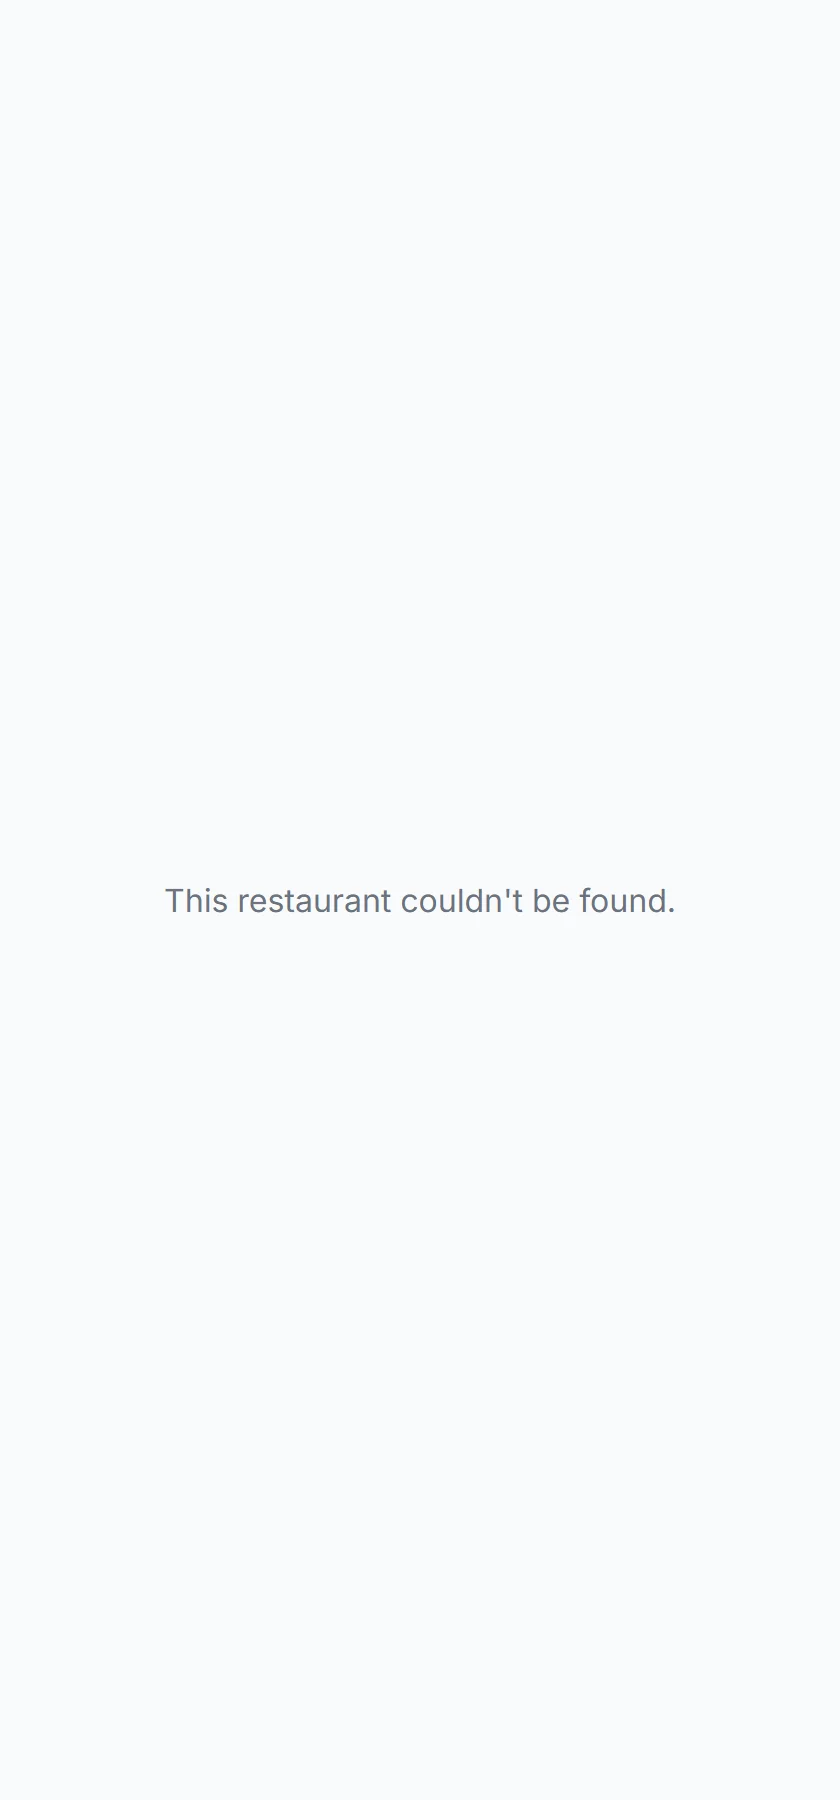
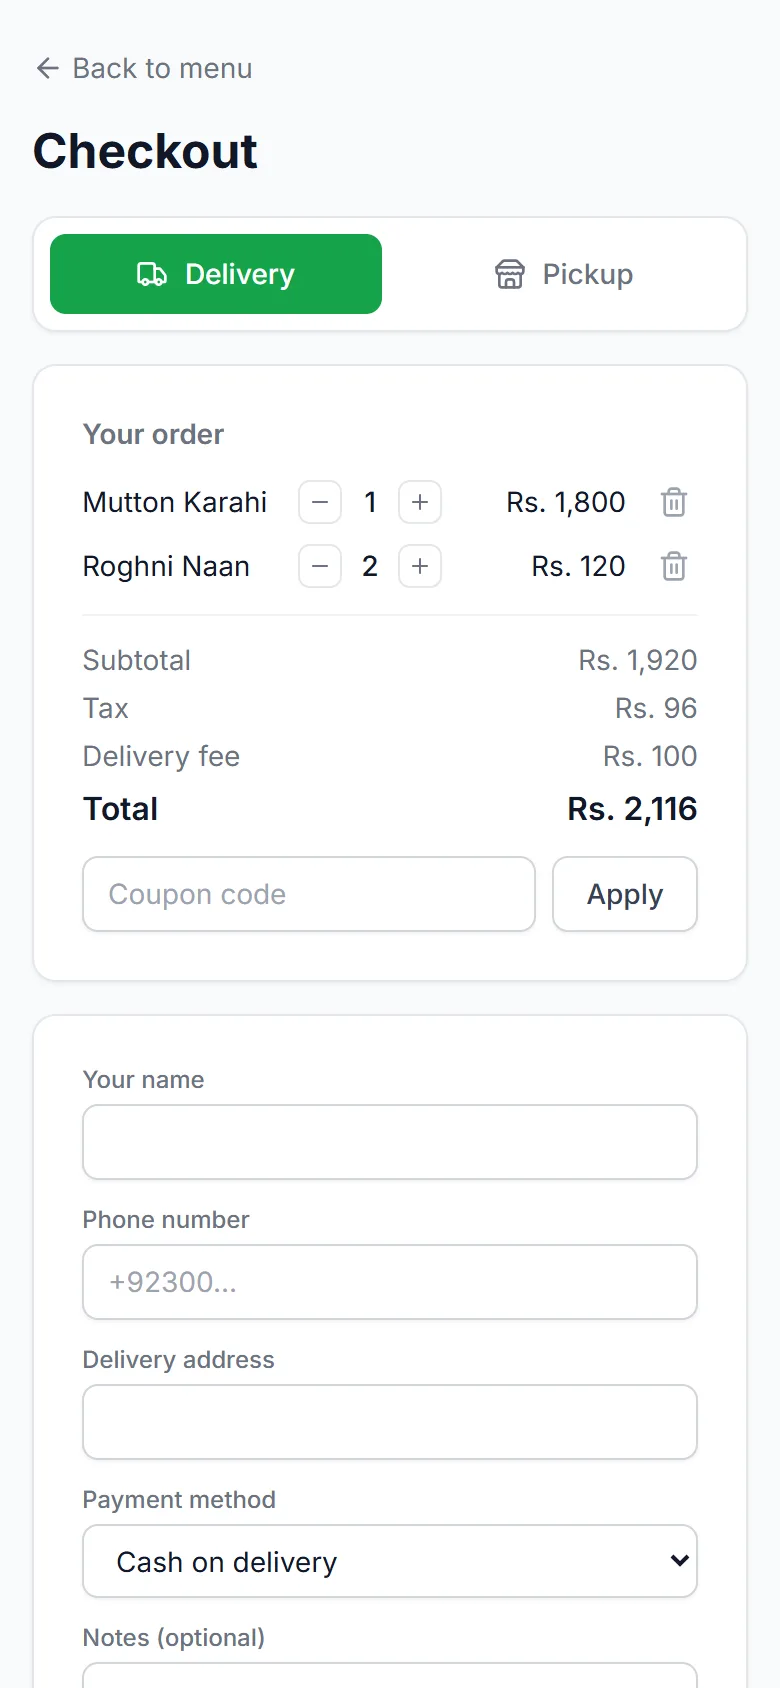
fix: manual QA Tier 3 — "?" shortcut in text fields, real marketing screenshots
- "?" opens the command palette only outside inputs, so questions can be typed
  in Insights and the WhatsApp demo
- Replace the three broken marketing captures ("restaurant couldn't be found",
  a login page) with the fresh User Manual screenshots: online menu, checkout,
  and an Insights question + answer; alt text now matches the image

diff --git a/client/src/pages/marketing/AITeamSection.jsx b/client/src/pages/marketing/AITeamSection.jsx
@@ -18,7 +18,7 @@ const TABS = [
     label: 'Ask Anything',
     icon: Sparkles,
     description: 'Ask about sales, orders, or customers in plain English or Urdu — Roman script included — and get a straight answer instead of a dashboard to dig through.',
-    content: <ScreenshotFrame src={askAnything} alt="AI Insights answering a Roman Urdu sales question" />,
+    content: <ScreenshotFrame src={askAnything} alt="AI Insights answering an owner's question about their top dishes this month" />,
   },
   {
     id: 'agents',

diff --git a/client/src/components/Layout.jsx b/client/src/components/Layout.jsx
@@ -94,7 +94,8 @@ export default function Layout({ children }) {
     { key: 'g', callback: () => navigate('/dashboard') },
     { key: 'o', callback: () => navigate('/orders') },
     { key: 'p', callback: () => navigate('/pos') },
-    { key: '?', callback: () => setPaletteOpen(true), when: 'input' },
+    // Not in text fields — people type question marks there.
+    { key: '?', callback: () => setPaletteOpen(true) },
   ]);
 
   function toggleGroup(label) {
